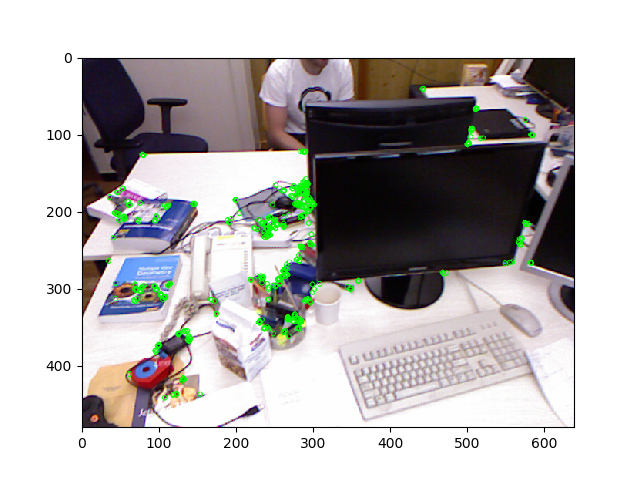
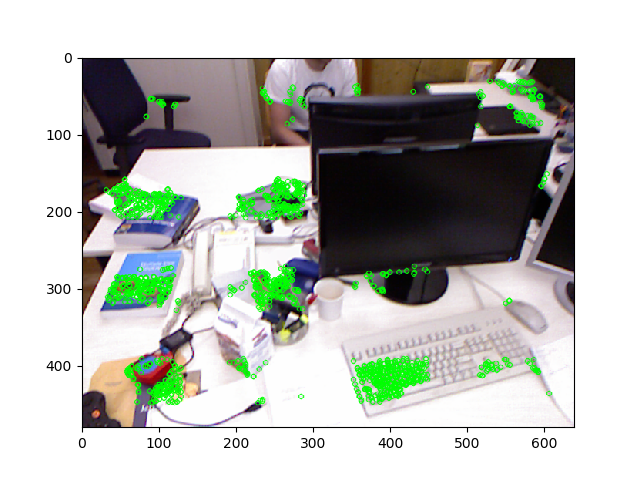
evenly distributed

Changed region(s): [[0.125, 0.125, 0.9062, 0.9062], [0.1875, 0.125, 0.2188, 0.1875]]

diff --git a/get_orb.py b/get_orb.py
@@ -1,17 +1,32 @@
 import cv2
 import numpy as np
 from matplotlib import pyplot as plt
-
+from PIL import Image
 def extract_orb(image):
-    orb = cv2.ORB_create(nfeatures=2000)
-    kp = orb.detect(image,None)
-    kp, des = orb.compute(image,kp)
-    # img2 = cv2.drawKeypoints(image,kp,outImage=None,color=(0,255,0), flags=0)
-    # plt.imshow(img2)
-    # plt.savefig("orb_result")
+    kp = []
+    des = []
+    H, W, _ = image.shape
+    H4, W4 = H//4, W//4
+    for i in range(4):
+        for j in range(4):
+            orb = cv2.ORB_create(nfeatures=2000)
+            im = image[i*H4:(i+1)*H4,j*W4:(j+1)*W4]
+            tmpkp, tmpdes = orb.detectAndCompute(im,None)
+            for k in tmpkp:
+                point = (k.pt[0]+j*W4, k.pt[1]+i*H4)
+                k.pt = point
+            if tmpdes is not None:
+                kp += tmpkp
+                des.append(tmpdes)
+    
+    des = np.vstack(tuple(des)).reshape((-1,32))
+    print(des.shape[0])
+    img2 = cv2.drawKeypoints(image,kp,outImage=None,color=(0,255,0), flags=0)
+    plt.imshow(img2)
+    plt.savefig("orb_result")
     return kp, des
 
 if __name__=="__main__":
-    image = cv2.imread('input.jpg',0)
+    image = cv2.imread("/data/datasets/yurouy/rgbd_dataset_freiburg1_xyz/rgb/1305031102.175304.png")
     kp, des = extract_orb(image)
     image2 = cv2.drawKeypoints(image,kp,outImage=None,color=(255,0,0),flags=0)

diff --git a/get_pointclouds.py b/get_pointclouds.py
@@ -100,6 +100,7 @@ if __name__ == "__main__":
   
     for i in range(1):
         rgb = data_dir + rgb_list[asso_list[i][0]][0]
+        print(rgb)
         depth = data_dir + depth_list[asso_list[i][1]][0]
         rgb_im = Image.open(rgb)
         depth_im = Image.open(depth)

diff --git a/odometry.py b/odometry.py
@@ -43,10 +43,6 @@ def calculate_odometry(ref_graph,ref_cloud_dict,ref_orb_dict,rgbd):
     print(res)
 
 
-            
-
-
-
 if __name__ == "__main__":
     data_dir = "/data/datasets/yurouy/rgbd_dataset_freiburg1_xyz/"
     depth_path = data_dir + "depth.txt"
